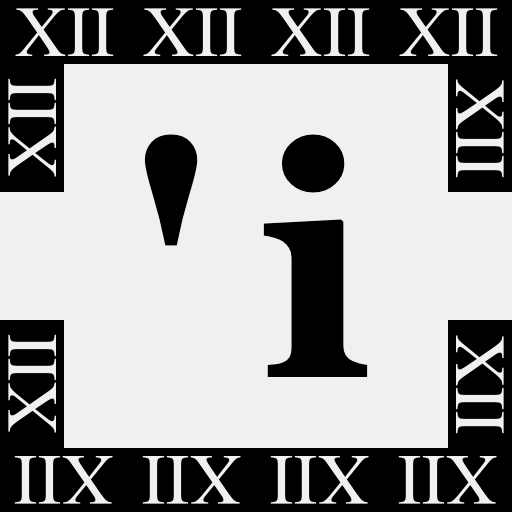
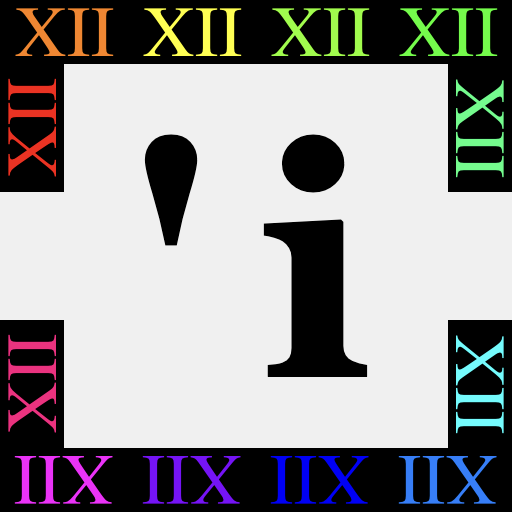
add color to cover & minor bugfix

diff --git a/'i.materials/Release/play.html b/'i.materials/Release/play.html
@@ -29,7 +29,7 @@
 
 <body class="play">
 	<div id="header"><div id="subheader">
-		<div class="framelabel">&block;&block;&block;'&block; &block;i&block;&block;&block;&block; &mdash; Yrahcaz7</div>
+		<div class="framelabel"><span style="font-style: normal">&block;&block;&block;'&block; &block;i&block;&block;&block;&block;</span> &mdash; Yrahcaz7</div>
 		<div class="links">
 			<span><a href="index.html">Go Back</a> <span class="filetype">(link)</span></span>
 			&mdash;

diff --git a/'i.materials/Templates/'i/play.html b/'i.materials/Templates/'i/play.html
@@ -13,7 +13,7 @@
 
 <body class="play">
 	<div id="header"><div id="subheader">
-		<div class="framelabel">&block;&block;&block;'&block; &block;i&block;&block;&block;&block; &mdash; Yrahcaz7</div>
+		<div class="framelabel"><span style="font-style: normal">&block;&block;&block;'&block; &block;i&block;&block;&block;&block;</span> &mdash; Yrahcaz7</div>
 		<div class="links">
 			<span><a href="index.html">Go Back</a> <span class="filetype">(link)</span></span>
 			&mdash;
